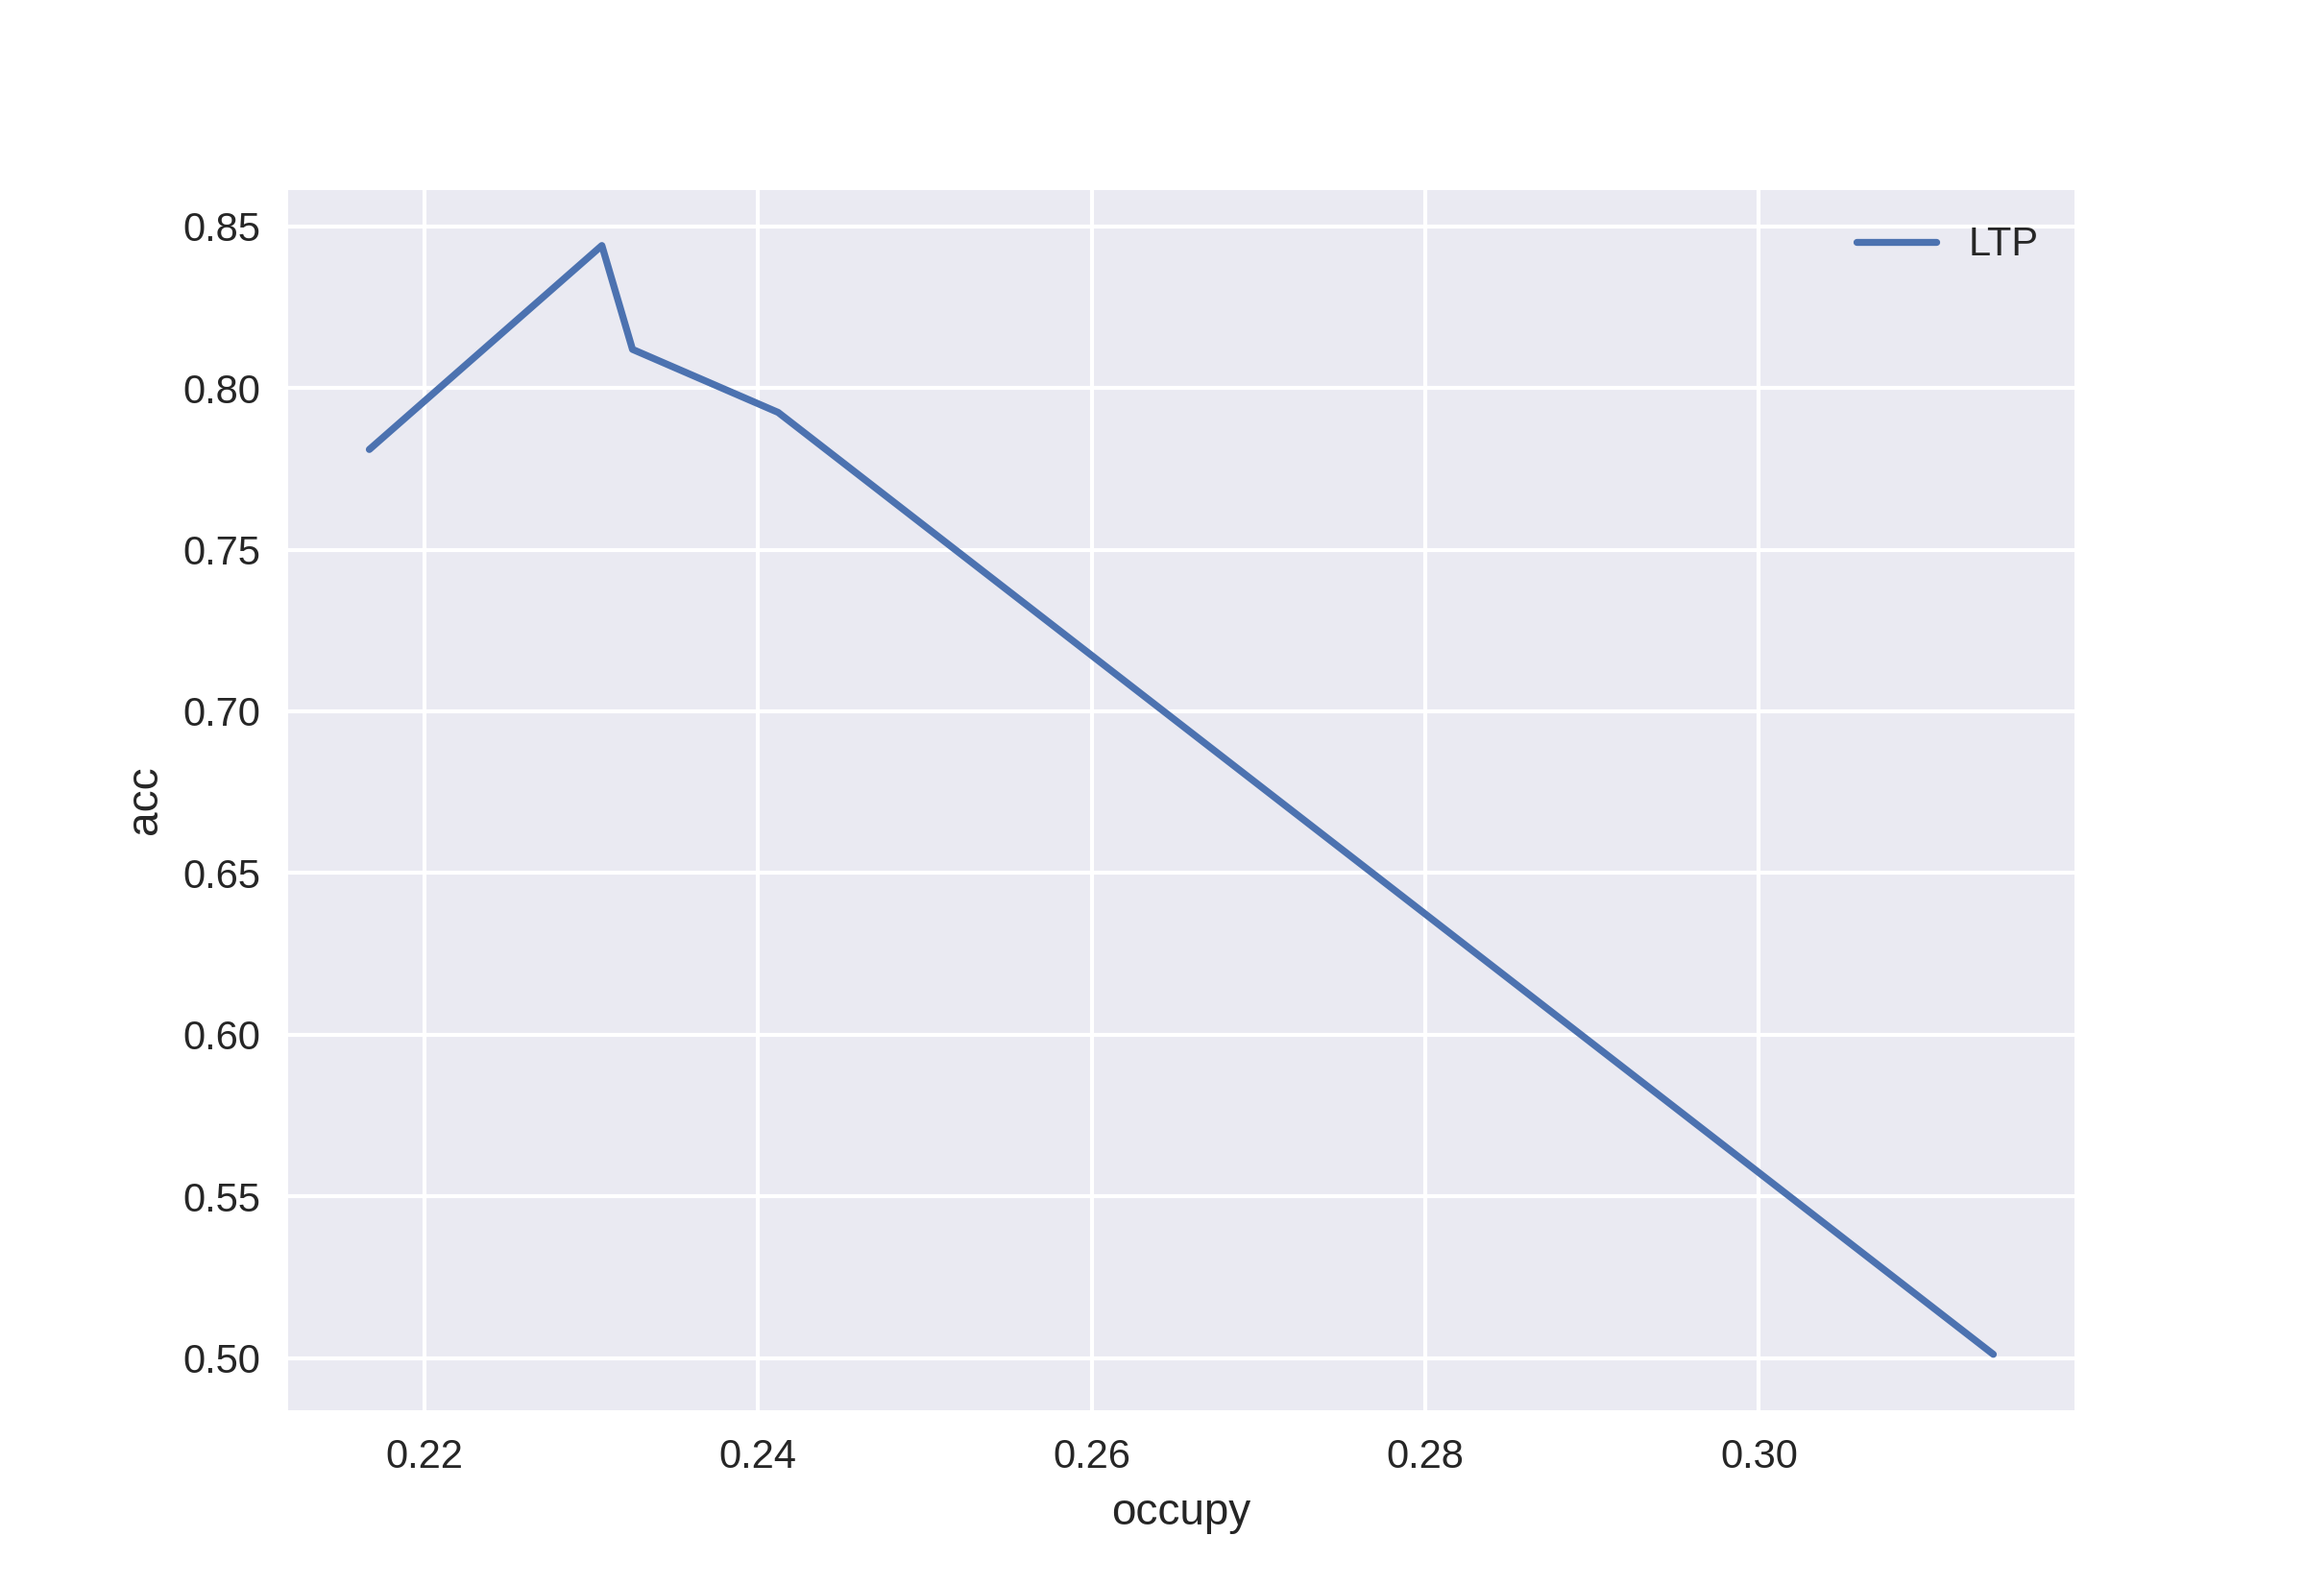
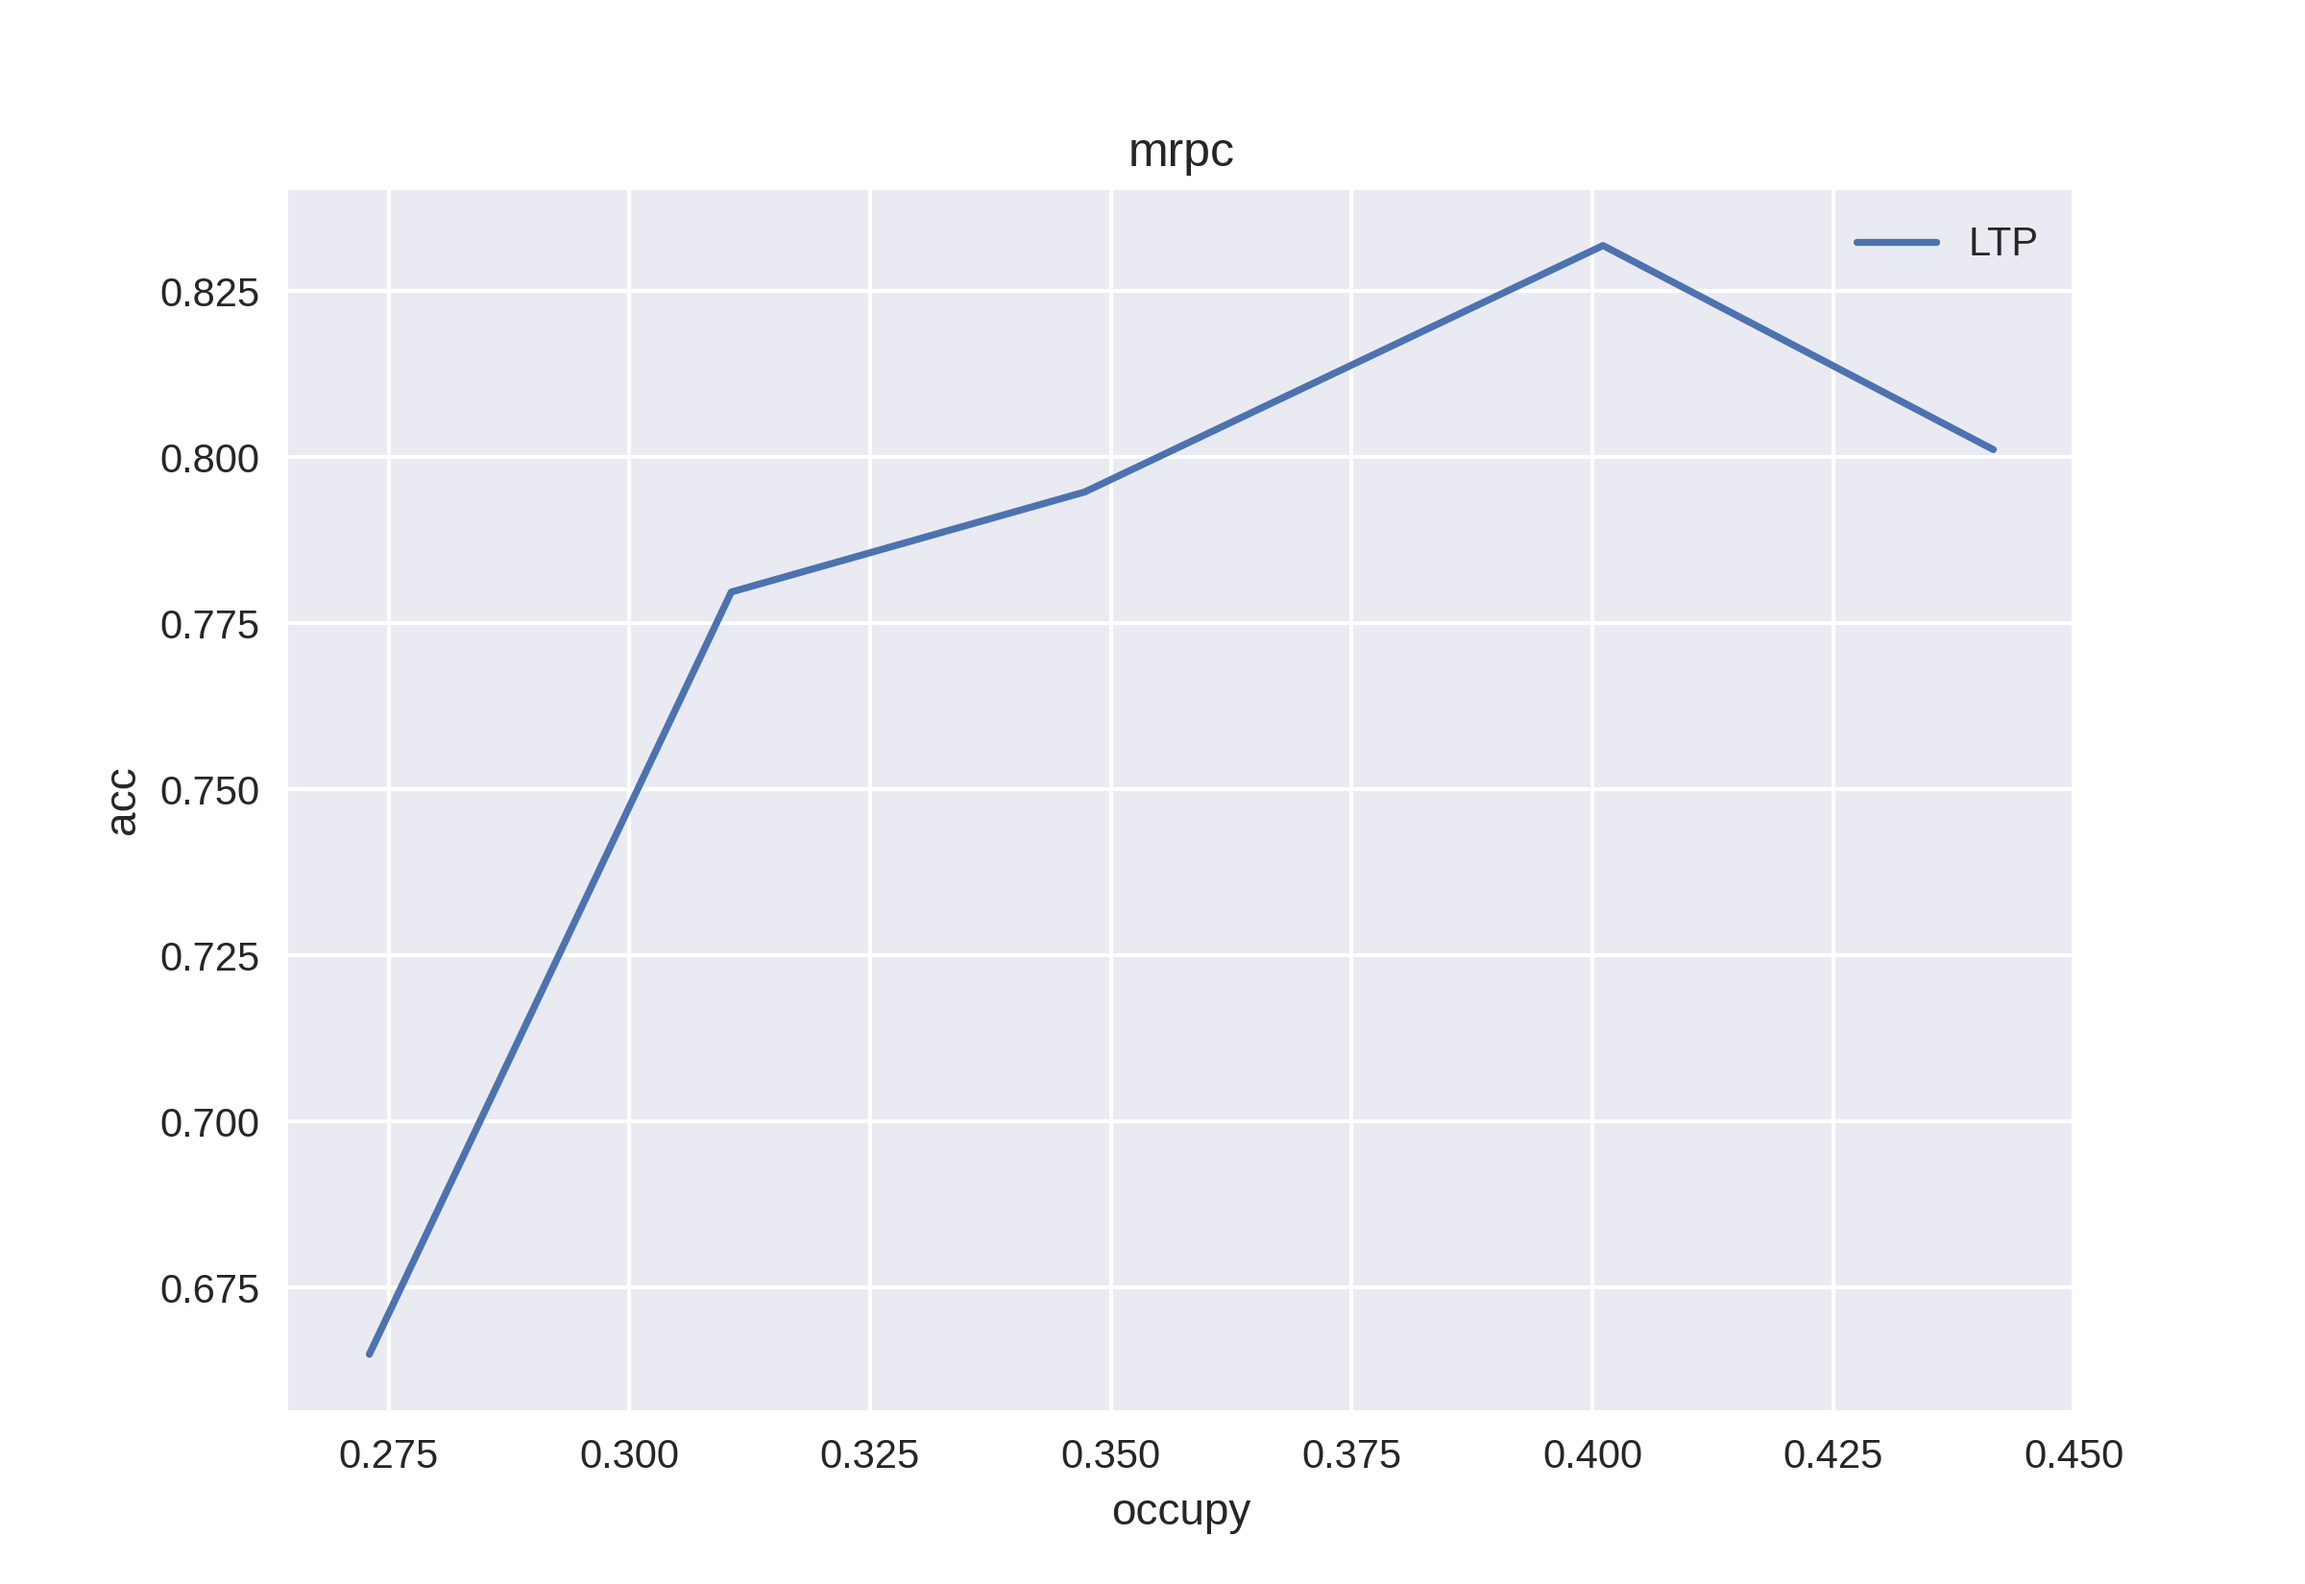
ltp fix

diff --git a/models/sparse_token.py b/models/sparse_token.py
@@ -558,7 +558,7 @@ class LTPPruneToken(nn.Module):
         if self.soft_pruning:
             #score (N, T)
             score = torch.mean(torch.mean(attention_score, dim=1), dim=1)
-            self.last_mask = F.sigmoid((score - self.threshold) / self.temperature)
+            self.last_mask = torch.sigmoid((score - self.threshold) / self.temperature)
         else:
             score = torch.mean(torch.mean(attention_score, dim=1), dim=1)
             self.last_mask = (score > self.threshold) * 1.0
@@ -961,8 +961,8 @@ class SparseBertModel(BertPreTrainedModel):
     def loss_ltp_regularization(self):
         loss = 0
         for layer in self.encoder.layer:
-            loss += torch.sum(torch.abs(layer.ltp_prune_token_module.last_mask))
-        return loss / len(self.encoder.layer)
+            loss += torch.mean(layer.ltp_prune_token_module.last_mask)
+        return loss
 
 class SparseBertForSequenceClassification(BertPreTrainedModel):
     def __init__(self, config):

diff --git a/main/ltp_glue_plot.py b/main/ltp_glue_plot.py
@@ -5,14 +5,14 @@ import trainer.ltp_trainer as ltp
 
 # options
 subset = 'mrpc'
-lambdas = [0.01, 0.02, 0.035, 0.05, 0.1]
-plot_name = f'saves_plot/ltp-glue-{subset}'
+lambdas = [0.01, 0.2, 0.6, 1.8, 5.4]
 
 parser = argparse.ArgumentParser()
 parser.add_argument('--subset', type=str, default=subset)
 parser.add_argument('--batch-size', type=int, default=-1)
 args = parser.parse_args()
 subset = args.subset
+plot_name = f'saves_plot/ltp-glue-{subset}'
 
 def get_score(score):
     if 'accuracy' in score:
@@ -44,5 +44,6 @@ points = sorted(points, key = lambda x: x[0])
 plt.plot([p[0] for p in points], [p[1] for p in points], label='LTP')
 plt.xlabel('occupy')
 plt.ylabel(metric_name)
+plt.title(subset)
 plt.legend()
 plt.savefig(plot_name+'.png', dpi=300)

diff --git a/main/glue_label_distribution.py b/main/glue_label_distribution.py
@@ -1,0 +1,16 @@
+import trainer.ltp_trainer as ltp
+import torch
+
+tokenizer = ltp.transformers.BertTokenizerFast.from_pretrained('bert-base-uncased')
+
+dataloader = ltp.get_dataloader('mrpc', tokenizer, 64, split='validation')
+
+x = 0
+c = 0
+for batch in dataloader:
+    label = batch['labels']
+    if label.shape[0] == 64:
+        x += label
+        c += 1
+
+print(torch.mean(x/c, dim=0))

diff --git a/trainer/ltp_trainer.py b/trainer/ltp_trainer.py
@@ -46,15 +46,15 @@ task_to_keys = {
 }
 
 task_to_epochs = {
-    "cola": 20,
+    "cola": 10,
     "mnli": 2,
-    "mrpc": 20,
+    "mrpc": 10,
     "qnli": 2,
     "qqp":  2,
-    "rte":  20,
+    "rte":  10,
     "sst2": 2,
-    "stsb": 20,
-    "wnli": 20,
+    "stsb": 10,
+    "wnli": 10,
     "bert": 6,
 }
 
